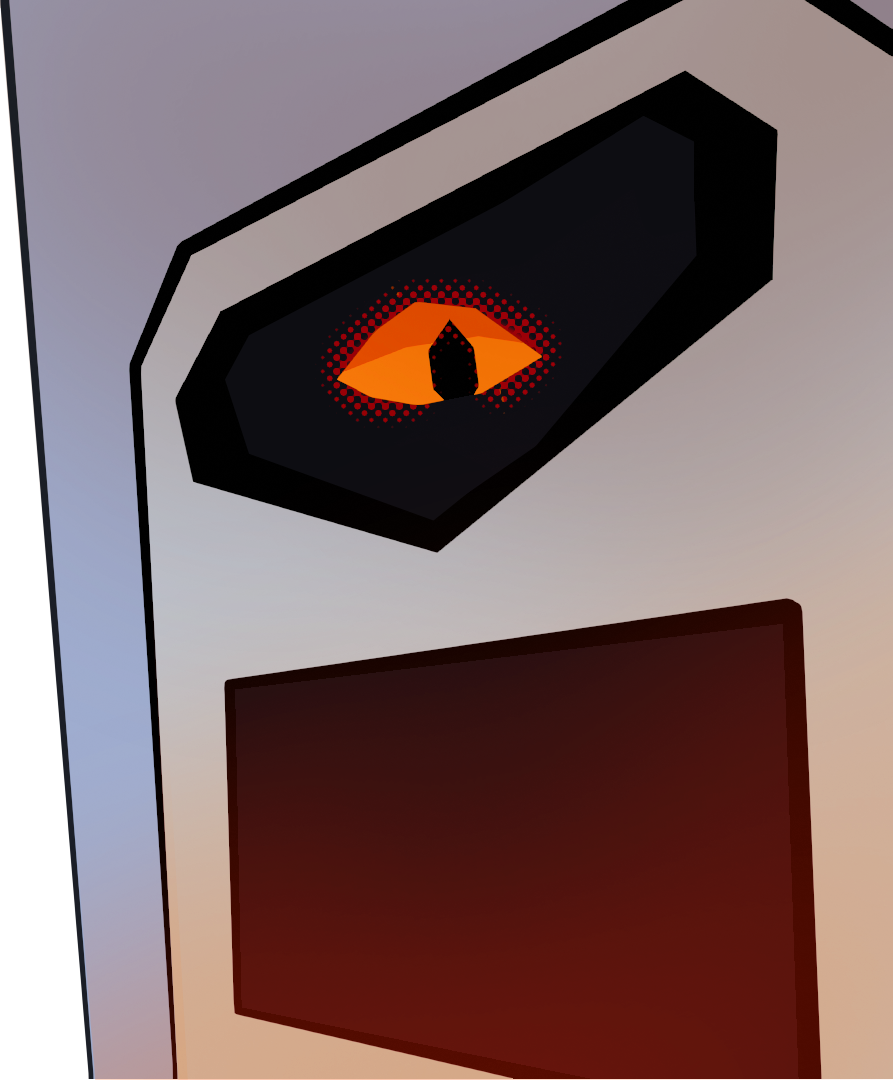
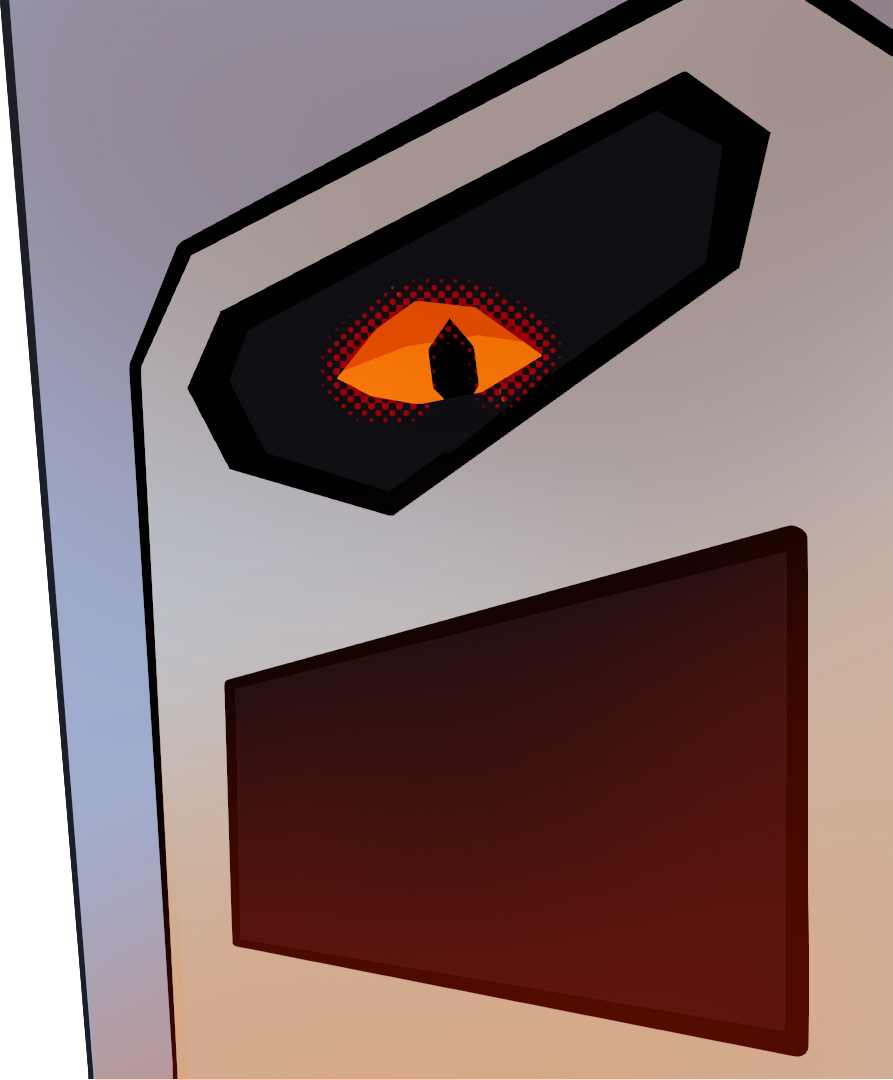
mm yes better angle

Changed region(s): [[0.2419, 0.7944, 0.9373, 1.0], [0.1814, 0.0917, 0.8768, 0.5194], [0.2721, 0.4889, 0.9071, 0.6417]]

diff --git a/seasons/seasons.css b/seasons/seasons.css
@@ -34,7 +34,7 @@
     
     margin-top:10vh;
 	transform-origin: center right;
-    transform: perspective(100px) rotateY(-5deg) rotateX(1deg) translate(30%, 40px);
+    transform: perspective(100px) rotateY(-10deg) rotateY(4deg) rotateX(0deg) translate(30%, -41px);
 
     overflow: auto;
 
@@ -55,7 +55,7 @@
     background-color: aqua;
 }
 
-#poem-spacer {
+.poem-spacer {
     padding-top: 200px;
     max-height: 10vh;
 }
@@ -76,7 +76,7 @@
     animation: load-in 0.5s;
 
     background-image: url("assets/sample.png");
-    background-position: center;
+    background-position: right;
     background-size:cover;
     position: absolute;
     background-repeat: no-repeat;

diff --git a/seasons/scripts/Betzalel.js b/seasons/scripts/Betzalel.js
@@ -43,7 +43,10 @@ function Betzalel() {
 
     if (seen != "" && seen != seasons[day]) { // seen before on different day
         intro = "Ah! It's you from the <span class='hint-emphasis'>" + seen + "</span>! Good to see you again!";
-        followup = "It's the <span class='hint-emphasis'>" + seasons[day] + "</span> now... how time flies, huh?";
+        
+        followup = "It's the <span class='hint-emphasis'>" + seasons[day] + "</span> now... How time flies, huh?";
+
+        
     } else {
             
         if (seen != "") { // seen before on same day type

diff --git a/seasons/scripts/seasons.js b/seasons/scripts/seasons.js
@@ -48,6 +48,15 @@ const seasons = {
     5: "burning",
     6: "ash",
 }
+const season_values = {
+    "schmorplorp": 0,
+    "winter": 1,
+    "spring": 2,
+    "pollination": 3,
+    "fall": 4,
+    "burning": 5,
+    "ash": 6,
+}
 
 
 var date = new Date();

diff --git a/seasons/seasons.html b/seasons/seasons.html
@@ -22,7 +22,7 @@
     <div id="poem">
       <p id="poem-content">
       </p>
-      <div id="poem-spacer"></div>
+      <div class="poem-spacer"></div>
     </div>
   </div>
 
